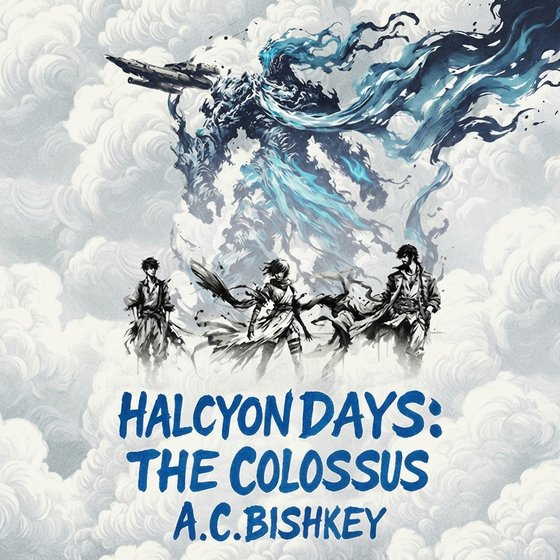
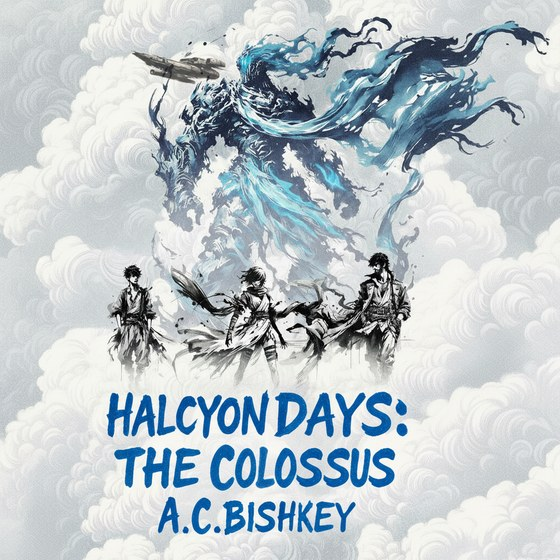
Add files via upload

diff --git a/index.html b/index.html
@@ -216,7 +216,7 @@ img{max-width:100%;display:block;}
 <section class="section book book--blue">
   <div class="wrap">
     <div class="book-grid">
-      <img class="book-cover cover-zoom" src="cover-colossus.jpg" alt="Halcyon Days: The Colossus cover">
+      <img class="book-cover cover-zoom" src="cover-colossus.jpg" data-large="cover-colossus-large.jpg" alt="Halcyon Days: The Colossus cover">
       <div>
         <p class="book-eyebrow">Book One &middot; Available now</p>
         <h2 class="book-title">The Colossus</h2>
@@ -275,7 +275,7 @@ img{max-width:100%;display:block;}
           <a class="btn btn-primary" href="./contact.html">Request a Free Advance Copy</a>
         </div>
       </div>
-      <img class="book-cover cover-zoom" src="cover-city-in-the-sands.jpg" alt="Halcyon Days: The City in the Sands cover">
+      <img class="book-cover cover-zoom" src="cover-city-in-the-sands.jpg" data-large="cover-city-in-the-sands-large.jpg" alt="Halcyon Days: The City in the Sands cover">
     </div>
   </div>
 </section>
@@ -344,8 +344,8 @@ img{max-width:100%;display:block;}
   function closeLb(){lb.classList.remove('open');lb.setAttribute('aria-hidden','true');document.body.style.overflow='';}
   document.querySelectorAll('.cover-zoom').forEach(function(c){
     c.setAttribute('tabindex','0');c.setAttribute('role','button');
-    c.addEventListener('click',function(){openLb(c.src,c.alt);});
-    c.addEventListener('keydown',function(e){if(e.key==='Enter'||e.key===' '){e.preventDefault();openLb(c.src,c.alt);}});
+    c.addEventListener('click',function(){openLb(c.dataset.large||c.src,c.alt);});
+    c.addEventListener('keydown',function(e){if(e.key==='Enter'||e.key===' '){e.preventDefault();openLb(c.dataset.large||c.src,c.alt);}});
   });
   lb.addEventListener('click',function(e){if(e.target===lb)closeLb();});
   btn.addEventListener('click',closeLb);